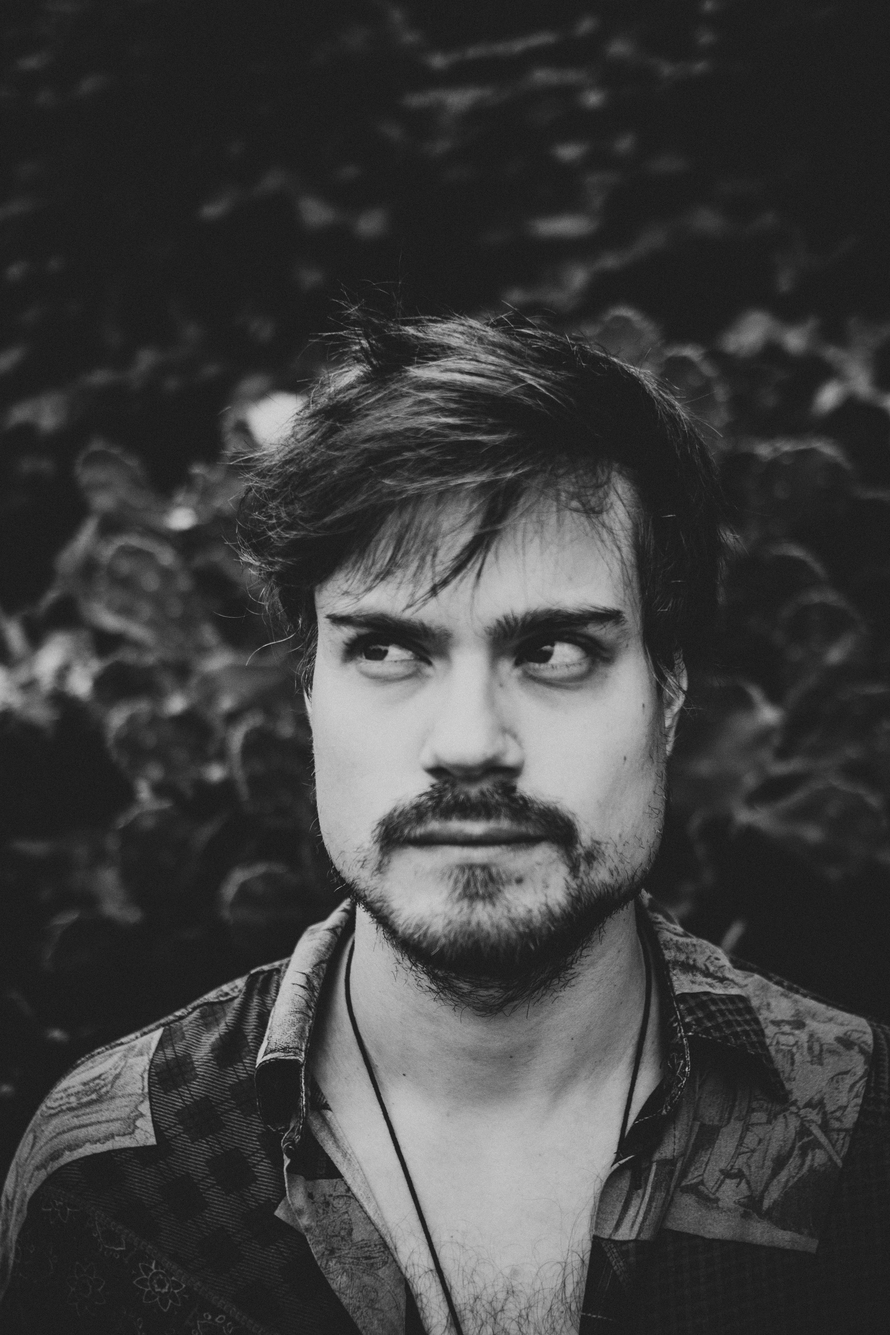
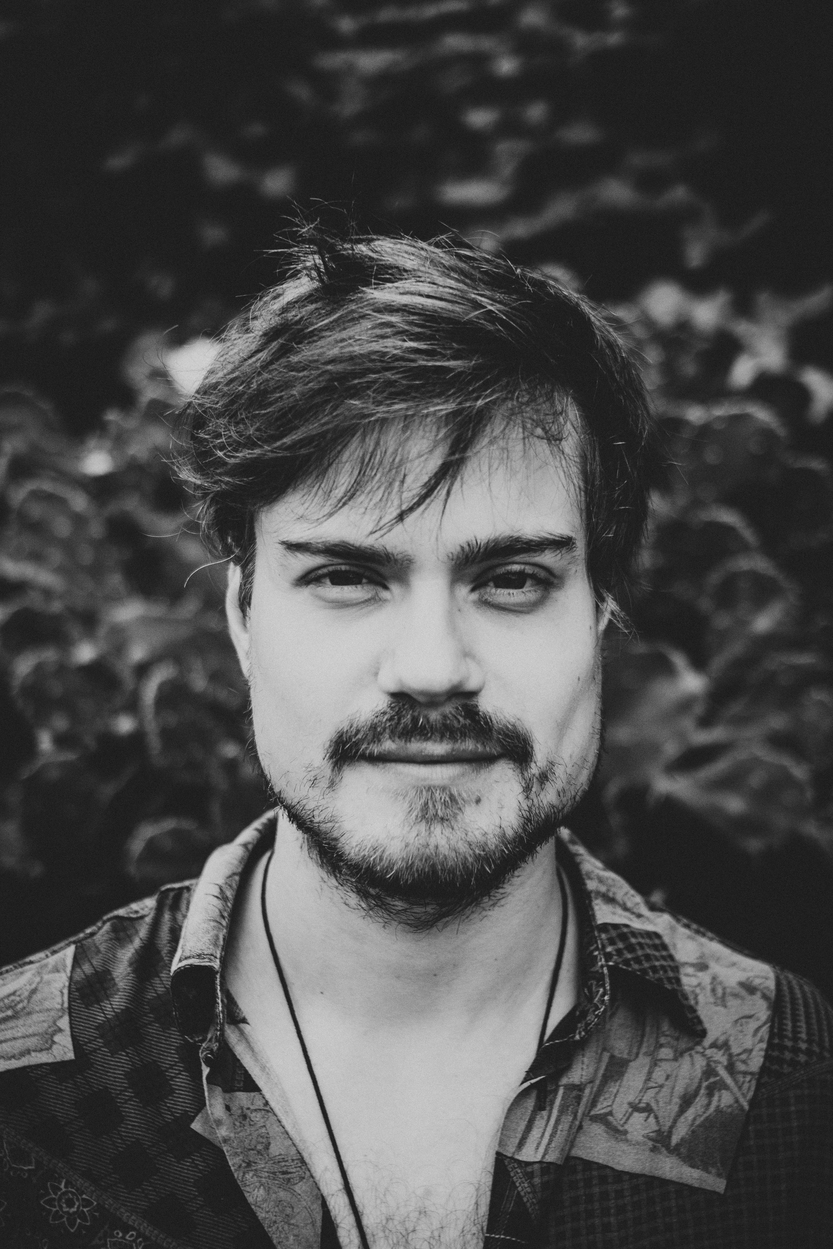
profile img

diff --git a/sobremi/sobremi.css b/sobremi/sobremi.css
@@ -141,10 +141,10 @@ p {
 }
 
 .profile-avatar img {
-    opacity: 89%;
+    opacity: 80%;
     width: 100%;
     position: absolute;
-    top: 44%;
+    top: 50%;
     left: 50%;
     transform: translate(-50%, -50%);
     transition: width 0.3s ease;
